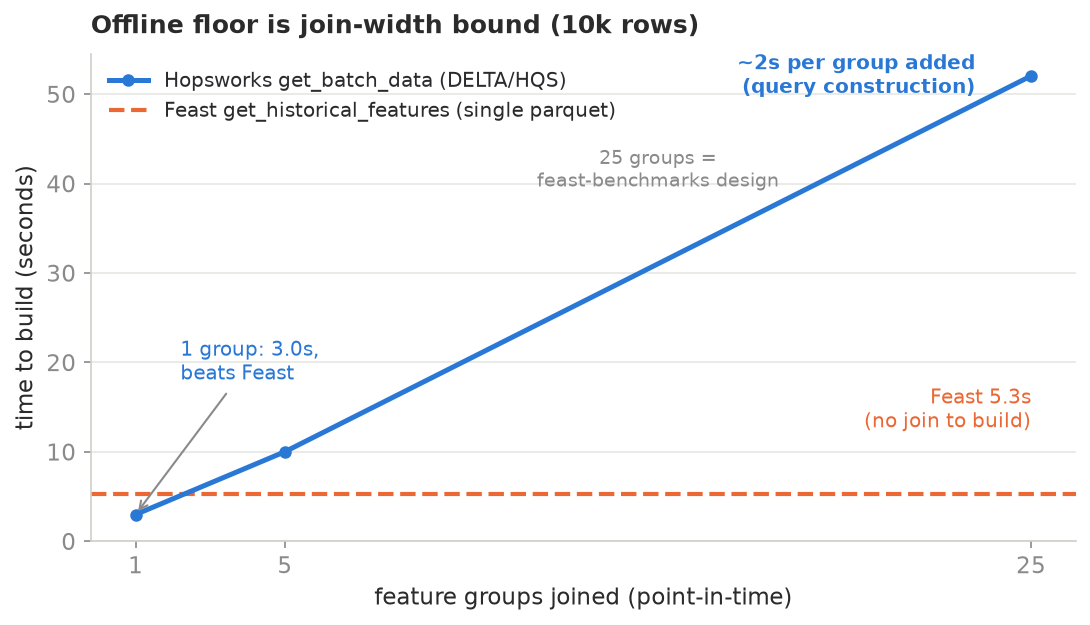
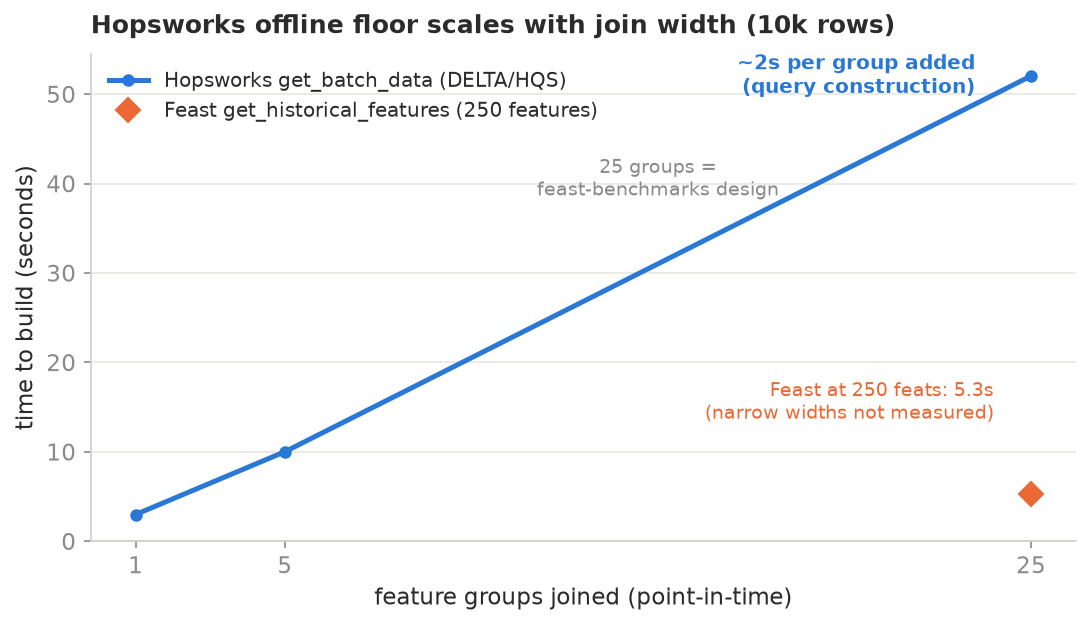
benchmark: walk back offline small-scale overclaim (unfair width comparison)
The 'Hopsworks wins at 10k with a narrow FV' claim compared Hopsworks at 1 group
(10 features, 3.0s) against Feast at 25 groups (250 features, 5.3s). Not apples to
apples: Feast reads less at narrow widths and is also faster (a 1-group read is
sub-second here). A fair by-width comparison needs Feast measured at the same widths,
which is not clean yet (empty spine on this parquet + a pandas datetime dtype error
on the multi-FV join).

- scorecard / RESULTS / benchmark README: keep the proven Hopsworks-side finding
  (floor is fan-out cost, 3s->52s, not row/starvation), drop the win-at-10k claim
- chart: Feast is one point at 25 groups (250 features), not a horizontal line;
  removed the 'beats Feast' annotation

diff --git a/benchmark/plot.py b/benchmark/plot.py
@@ -159,15 +159,15 @@ fig, ax = plt.subplots(figsize=(7.5, 4.4), dpi=150)
 groups = [1, 5, 25]
 hops = [2.99, 10.01, 52.04]
 ax.plot(groups, hops, color=HOPS, label="Hopsworks get_batch_data (DELTA/HQS)", **MARK)
-ax.axhline(5.3, color=FEAST, lw=2.0, ls="--", zorder=2, label="Feast get_historical_features (single parquet)")
+# Feast is only measured at the full 250 features (25 FVs), so it is one point at 25
+# groups, not a line: at narrow widths Feast reads less and is faster, unmeasured here.
+ax.plot([25], [5.3], color=FEAST, marker="D", ms=8, ls="none", zorder=4, label="Feast get_historical_features (250 features)")
 ax.set_xticks(groups); ax.set_ylim(bottom=0)
-ax.set_title("Offline floor is join-width bound (10k rows)", fontweight="bold", fontsize=12, pad=10, loc="left")
+ax.set_title("Hopsworks offline floor scales with join width (10k rows)", fontweight="bold", fontsize=12, pad=10, loc="left")
 ax.set_xlabel("feature groups joined (point-in-time)"); ax.set_ylabel("time to build (seconds)")
-ax.annotate("Feast 5.3s\n(no join to build)", xy=(25, 5.3), xytext=(25, 12), ha="right", va="bottom", color=FEAST, fontsize=9.5)
 ax.annotate("~2s per group added\n(query construction)", xy=(25, 52.04), xytext=(23.5, 52.04), ha="right", va="center", color=HOPS, fontweight="bold", fontsize=9.5)
-ax.annotate("1 group: 3.0s,\nbeats Feast", xy=(1, 2.99), xytext=(2.2, 20), ha="left", va="center", color=HOPS, fontsize=9.5,
-            arrowprops=dict(arrowstyle="->", color=MUT, lw=1))
-ax.annotate("25 groups =\nfeast-benchmarks design", xy=(25, 52.04), xytext=(15, 44), ha="center", va="top", color=MUT, fontsize=9)
+ax.annotate("Feast at 250 feats: 5.3s\n(narrow widths not measured)", xy=(25, 5.3), xytext=(24, 13), ha="right", va="bottom", color=FEAST, fontsize=9)
+ax.annotate("25 groups =\nfeast-benchmarks design", xy=(25, 52.04), xytext=(15, 43), ha="center", va="top", color=MUT, fontsize=9)
 style(ax); ax.legend(frameon=False, fontsize=9.5, loc="upper left")
 save(fig, "offline_join_width.png")
 

diff --git a/benchmark/README.md b/benchmark/README.md
@@ -28,7 +28,7 @@ Time to build a training dataset (N unique entities, 250 features, point-in-time
 
 The Hopsworks 10k point is its fixed distributed-query overhead floor, not a clean win at that size. This axis is engine-bound (pandas in-memory versus a distributed query) and runs at the second-to-minute scale, so the network is noise and the same-machine move does not change it.
 
-That floor is join-width bound, not row bound. Holding rows at 10k and varying the number of joined feature groups, Hopsworks `get_batch_data` runs 3.0s at 1 group, 10s at 5, 52s at 25. Roughly 2s per group, and at one group it beats Feast (5.3s). The row curve above is measured at the 25-group fan-out of the feast-benchmarks design, so the small-scale concession is a property of that wide join, not a weakness at small data. A profile puts ~36s of the 25-group floor in backend query construction and ~10s in the actual read; freeing cluster memory did not move it.
+That floor is join-width bound, not row bound. Holding rows at 10k and varying the number of joined feature groups, Hopsworks `get_batch_data` runs 3.0s at 1 group, 10s at 5, 52s at 25. Roughly 2s per group. The row curve above is measured at the 25-group fan-out of the feast-benchmarks design, so the small-scale concession is a property of that wide join, not a fixed weakness at small data. A profile puts ~36s of the 25-group floor in backend query construction and ~10s in the actual read; freeing cluster memory did not move it. A fair Hopsworks-vs-Feast comparison at narrow widths still needs Feast measured at the same widths (its 5.3s is at the full 250 features), so this axis characterizes the Hopsworks floor, not a small-scale win.
 
 ![Offline floor vs join width](img/offline_join_width.png)
 

diff --git a/README.md b/README.md
@@ -33,7 +33,7 @@ One node, both stores and both clients on it, July 2026. No external network on 
 | Axis | What came out | Winner |
 |---|---|---|
 | **Online serving** | 4.9x ahead at one row, 21.8x at a hundred, 15.4x at 250 features (p50). The tail is where it matters most for serving, and where the gap is widest: see below. | **Hopsworks** |
-| **Offline training data** | Hopsworks is 3.2x faster at 1M (109s vs 344s), and at 10M Feast runs out of memory with no distributed path to fall back on. Feast's in-memory join wins at small data only under a wide fan-out: the small-scale floor is join-width bound (3s at 1 group, 52s at 25), so at a realistic few-group feature view Hopsworks wins at 10k too. | **split** |
+| **Offline training data** | Hopsworks is 3.2x faster at 1M (109s vs 344s), and at 10M Feast runs out of memory with no distributed path to fall back on. Feast wins at small data. The Hopsworks small-scale floor is a query-construction cost that scales with join width (3s at 1 group to 52s at 25 groups at 10k), so it is fan-out driven, not row driven. | **split** |
 | **Point-in-time** | Both leak-free, zero future values on either side. Table stakes. Feast does quietly drop the before-event rows, which thins your early training examples. | **tie** |
 | **Reusability** | Reading a feature in two places is parity. Lineage, who-consumes-this, cross-team sharing and access control are native in Hopsworks and missing from Feast's open-source default. | **Hopsworks** |
 

diff --git a/benchmark/offline/RESULTS.md b/benchmark/offline/RESULTS.md
@@ -27,7 +27,9 @@ The row curve above is measured at a fixed 25-group fan-out (the feast-benchmark
 | 5 | 50 | 10.01 s |
 | 25 | 250 | 52.04 s |
 
-Roughly 2 s per group added. At one group Hopsworks builds the training data in 3.0 s and beats Feast's 5.3 s; the lines cross around two groups. The "Feast wins below 100k" concession is a property of the 25-way join, not a small-scale weakness of Hopsworks. A realistic feature view of a few groups wins at 10k too.
+Roughly 2 s per group added: 3.0 s at 1 group, 52 s at 25. So the "Feast wins below 100k" concession is driven by the 25-way fan-out of the feast-benchmarks design, and narrows sharply with fewer groups.
+
+This does not by itself mean Hopsworks wins at 10k with a narrow feature view. Feast's 5.3 s is measured at the full 250 features (25 FVs); at a narrow width Feast reads less data and is also faster (a 1-group read on this data is sub-second), so a fair by-width comparison needs Feast measured at the same widths, which is not yet clean here (the Feast width harness returns an empty spine on this parquet and hits a pandas datetime dtype error on the multi-FV join). What is established is the Hopsworks side: the small-scale floor is fan-out cost, not a row cost and not cluster starvation.
 
 Where the time goes (cProfile of one warm `get_batch_data`, 25 groups, 10k rows, 47 s total):
 
